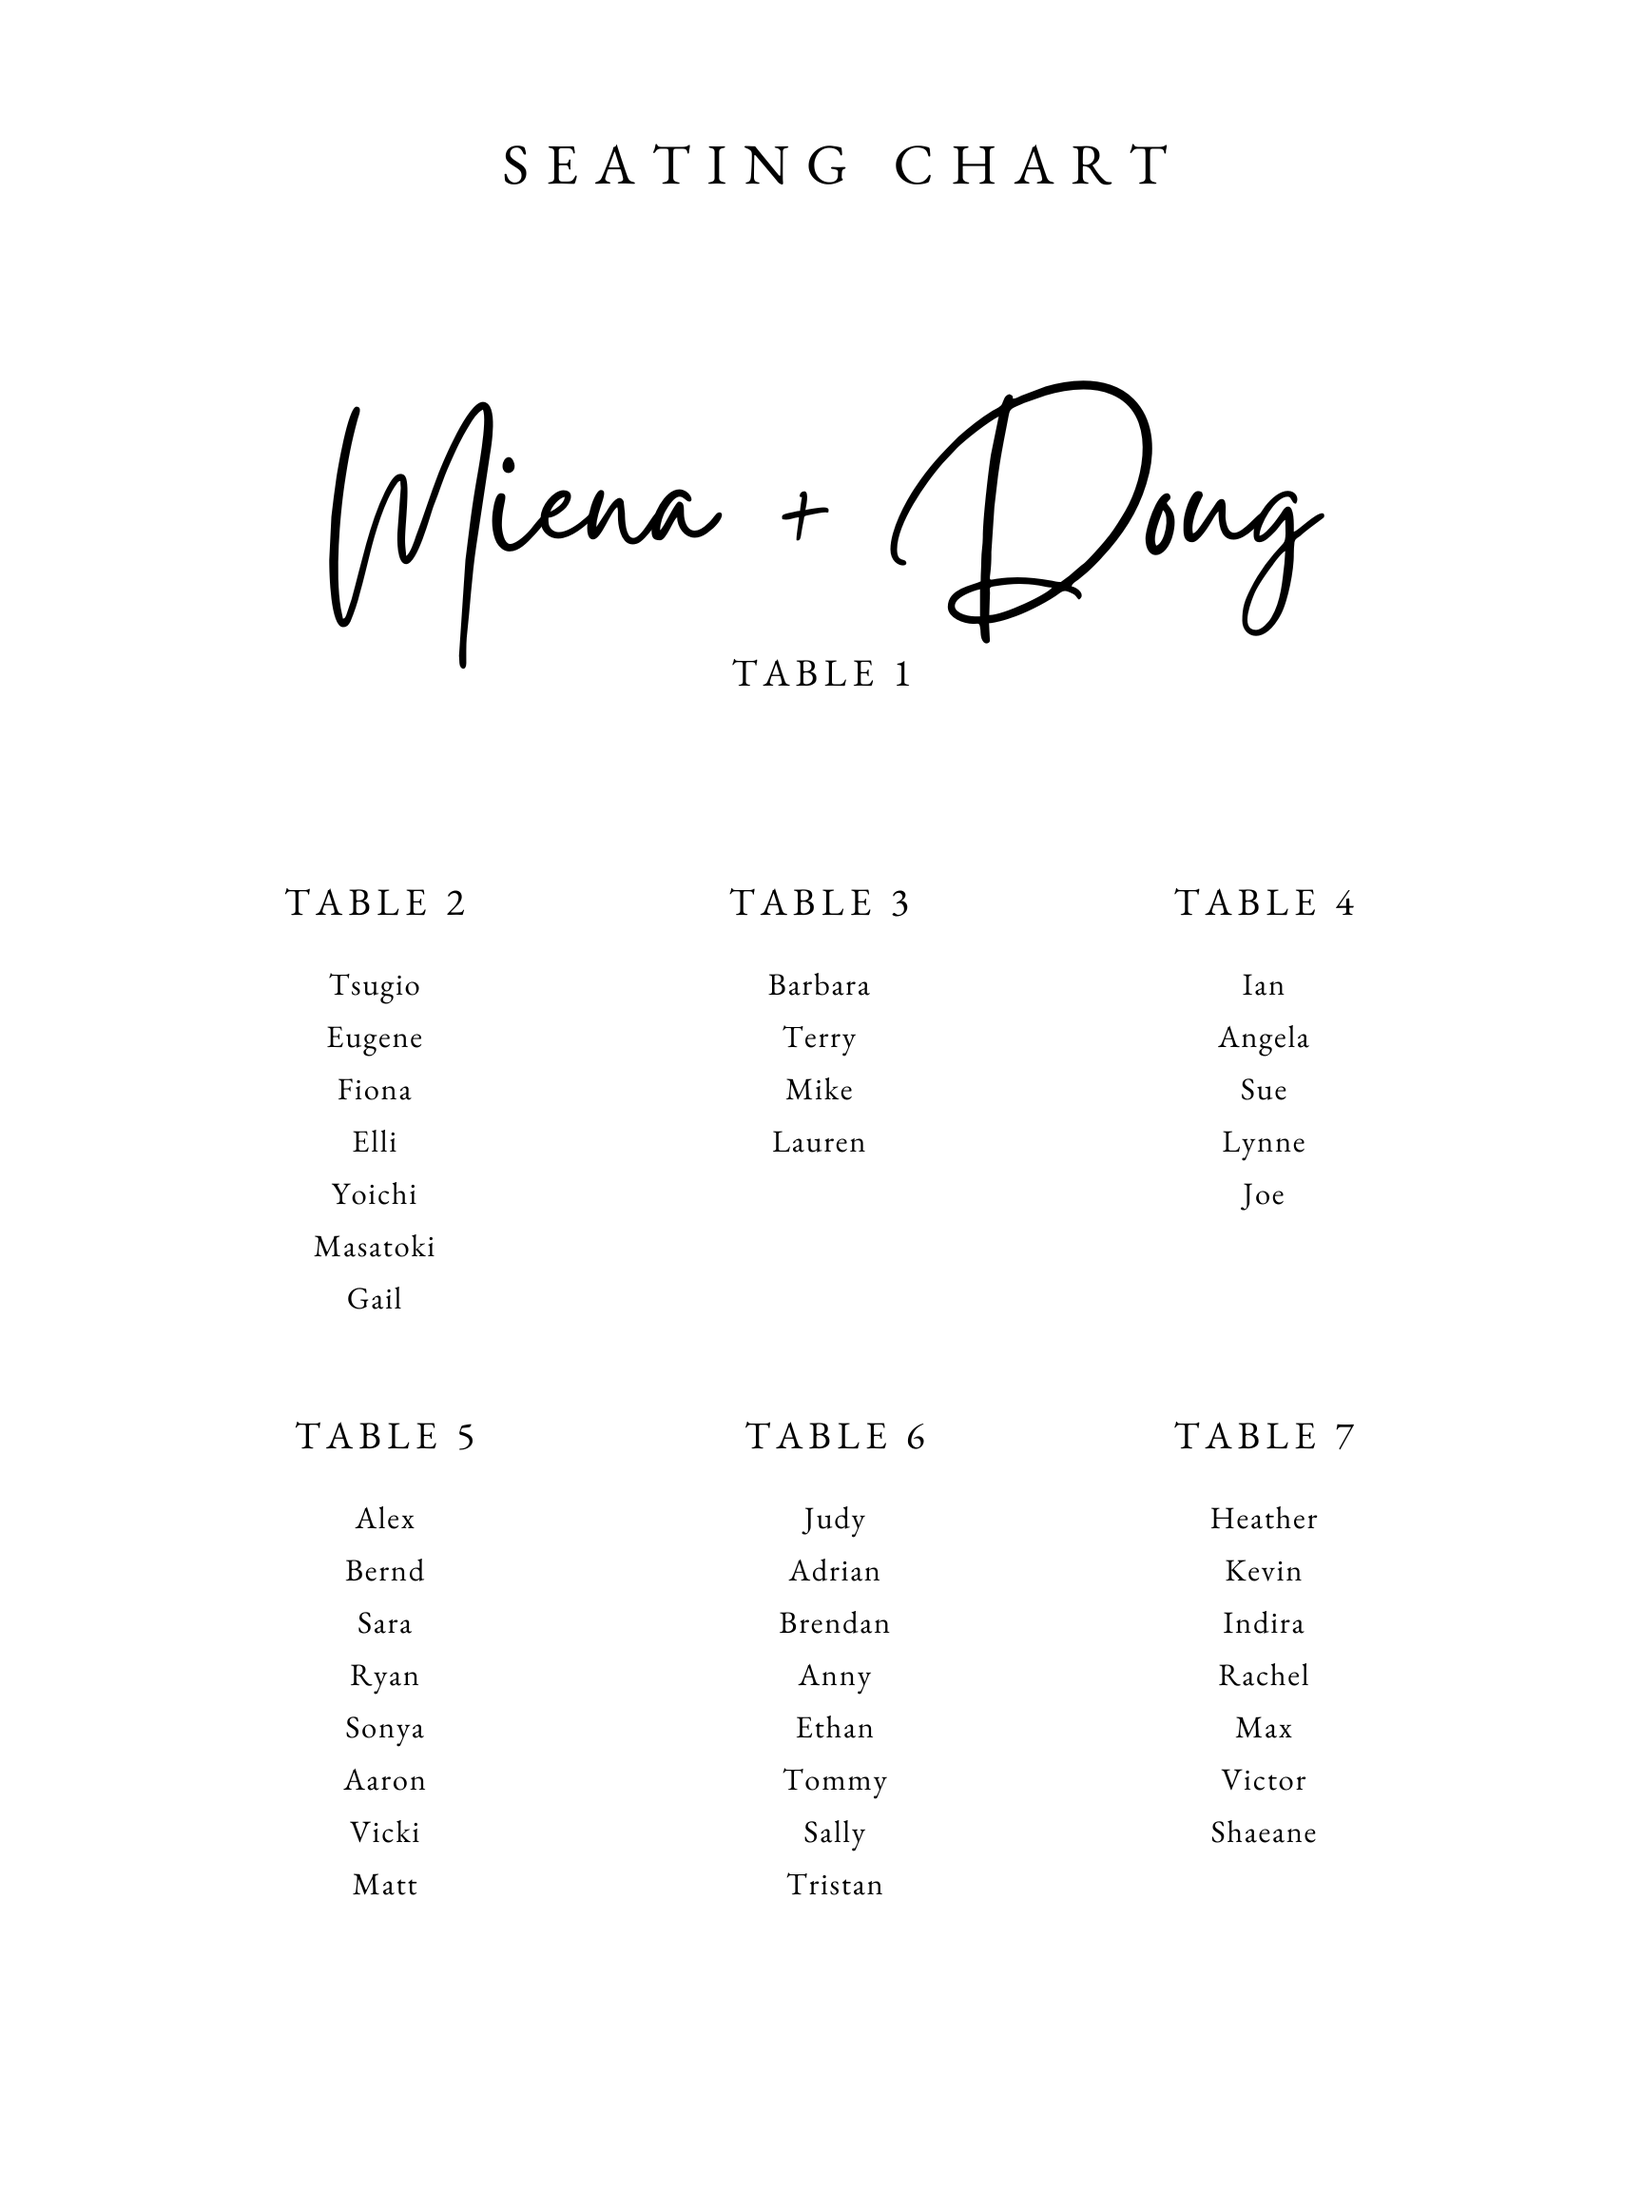
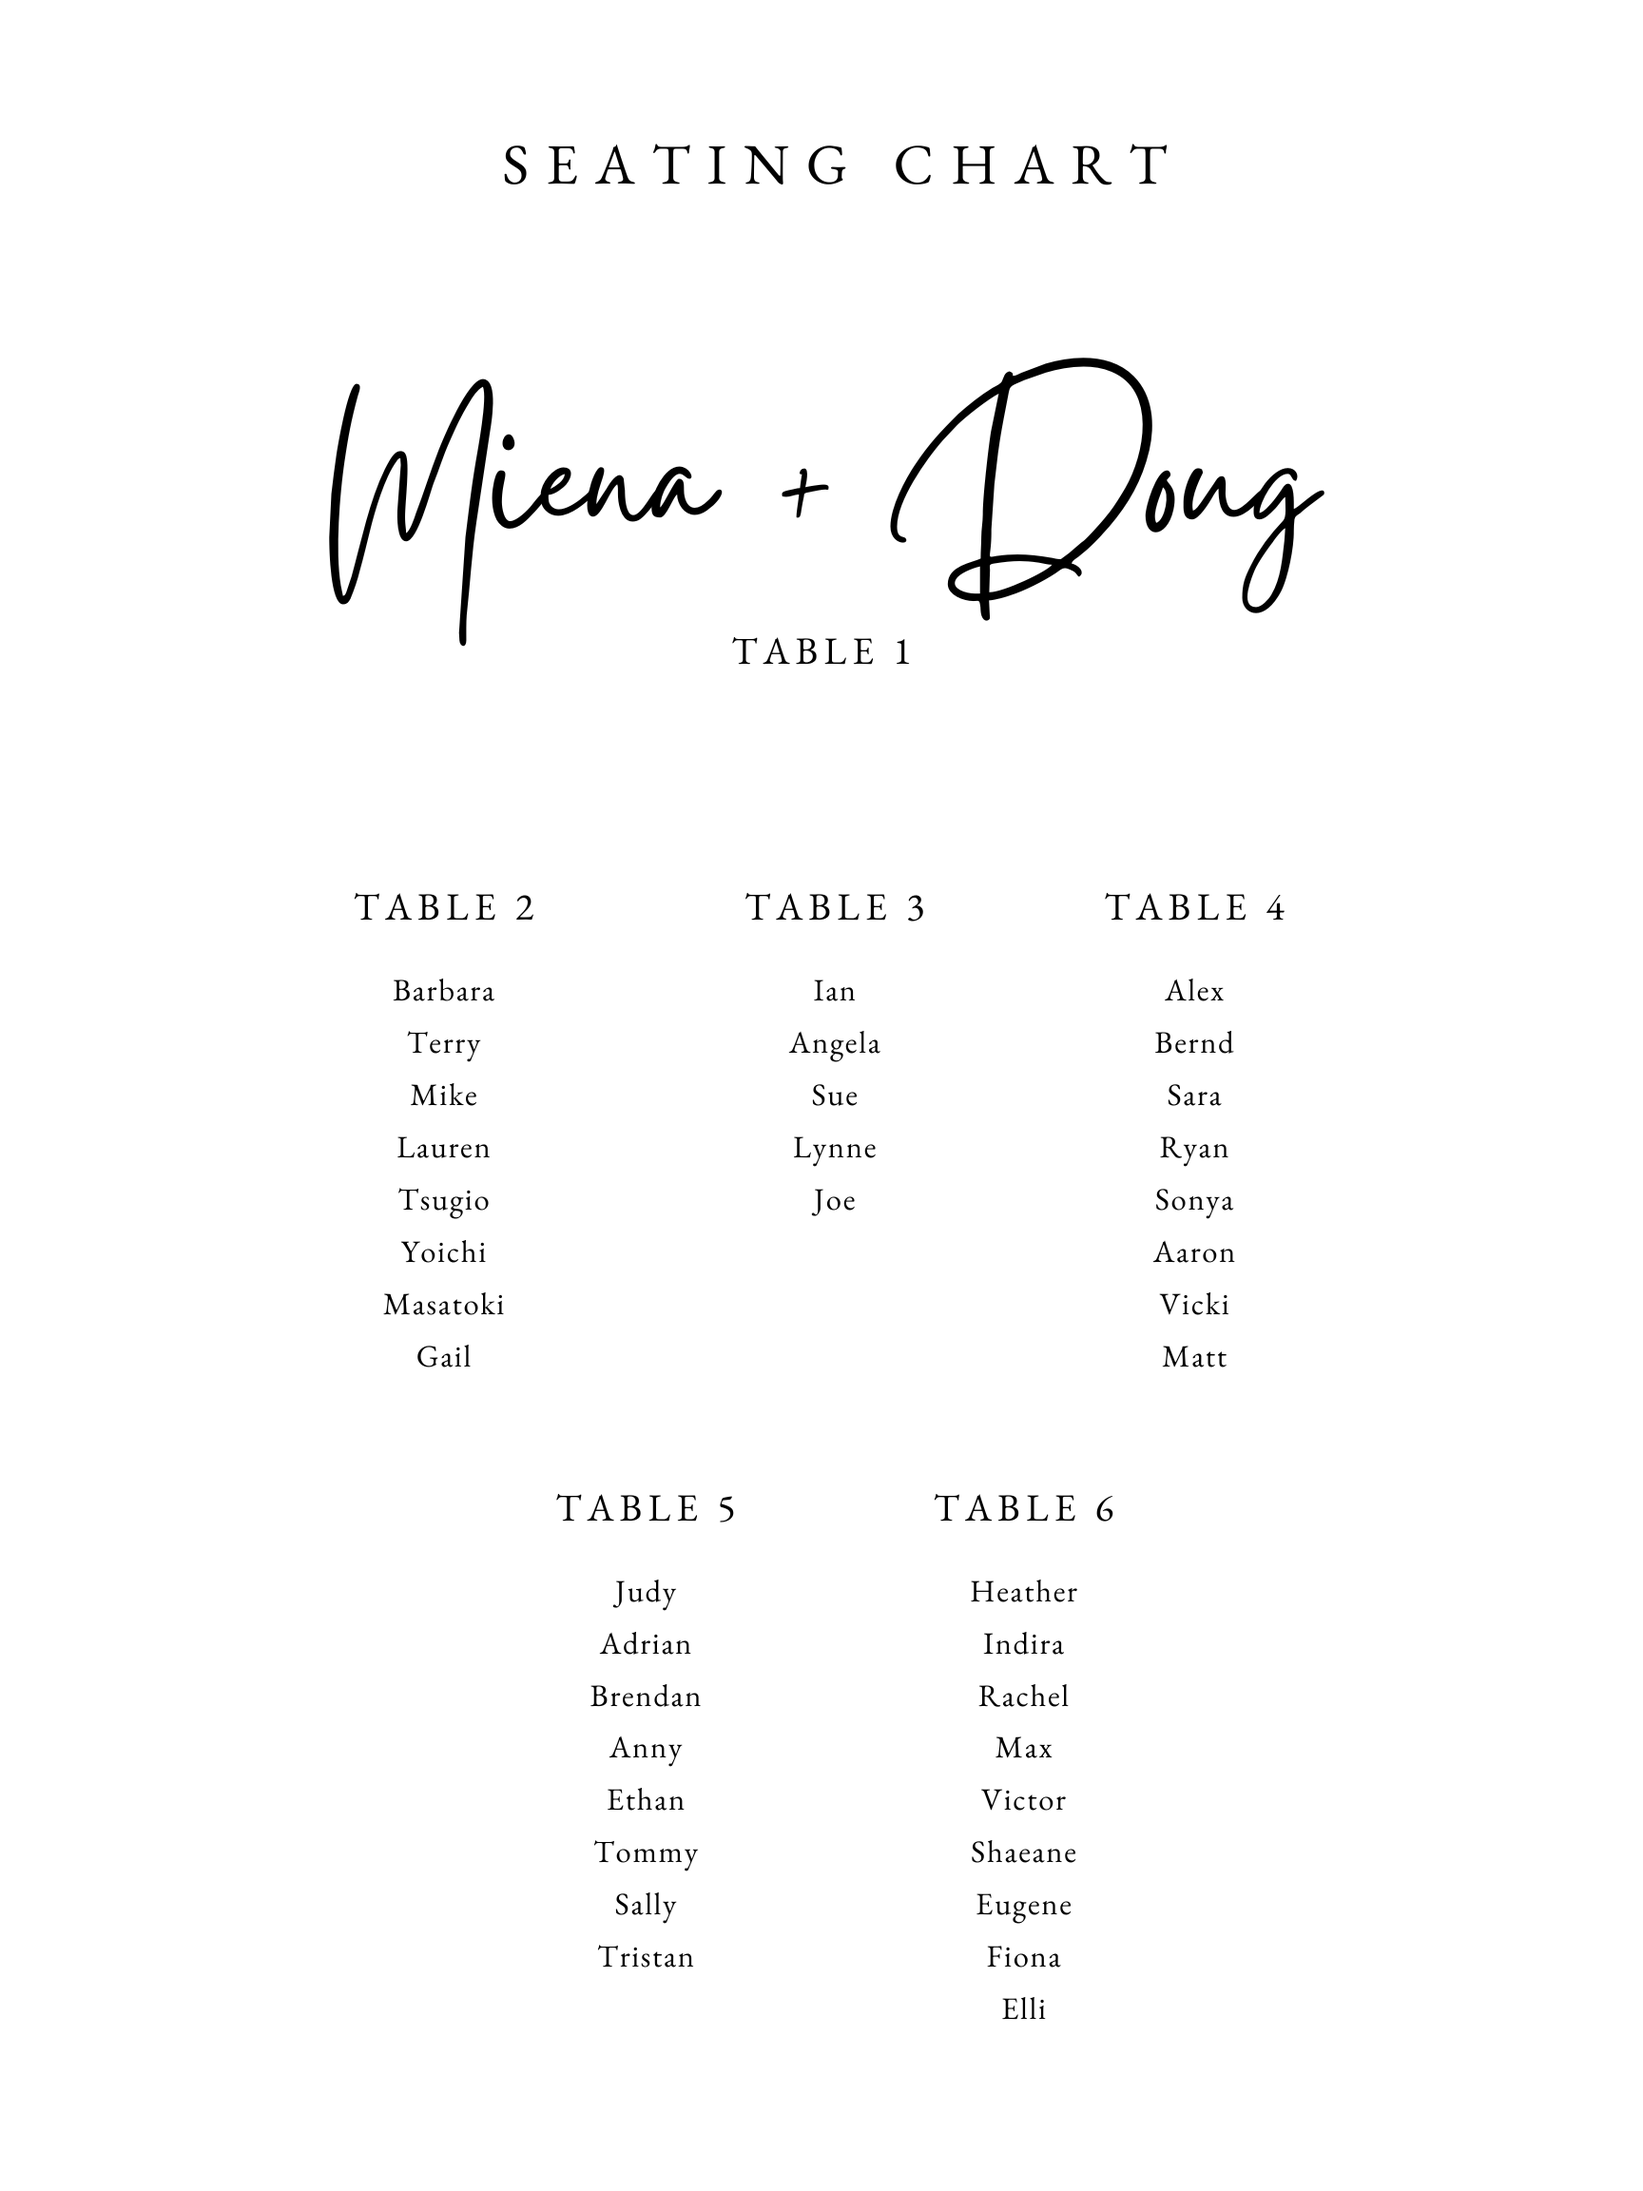
x

diff --git a/index.html b/index.html
@@ -103,16 +103,19 @@
 									</thead>
 									<tbody>
 										<tr>
+											<td>Barbara</td>
+										</tr>
+										<tr>
+											<td>Terry</td>
+										</tr>
+										<tr>
+											<td>Mike</td>
+										</tr>
+										<tr>
+											<td>Lauren</td>
+										</tr>
+										<tr>
 											<td>Tsugio</td>
-										</tr>
-										<tr>
-											<td>Eugene</td>
-										</tr>
-										<tr>
-											<td>Fiona</td>
-										</tr>
-										<tr>
-											<td>Elli</td>
 										</tr>
 										<tr>
 											<td>Yoichi</td>
@@ -123,7 +126,6 @@
 										<tr>
 											<td>Gail</td>
 										</tr>
-										
 									</tbody>
 								</table>
 							</li>
@@ -136,35 +138,6 @@
 									<thead>
 										<tr>
 											<th>Three</th>
-										</tr>
-									</thead>
-									<tbody>
-										<tr>
-											<td>Barbara</td>
-										</tr>
-										<tr>
-											<td>Terry</td>
-										</tr>
-										<tr>
-											<td>Mike</td>
-										</tr>
-										<tr>
-											<td>Lauren</td>
-										</tr>
-									</tbody>
-								</table>
-							</li>
-						</ul>
-					</div>
-				</div>
-				<div class="row">
-					<div class="col-6 col-12-small">
-						<ul class="actions stacked">
-							<li>
-								<table class="alt">
-									<thead>
-										<tr>
-											<th>Four</th>
 										</tr>
 									</thead>
 									<tbody>
@@ -188,13 +161,16 @@
 							</li>
 						</ul>
 					</div>
+				</div>
+				<div class="row">
+
 					<div class="col-6 col-12-small">
 						<ul class="actions stacked">
 							<li>
 								<table class="alt">
 									<thead>
 										<tr>
-											<th>Five</th>
+											<th>Four</th>
 										</tr>
 									</thead>
 									<tbody>
@@ -227,15 +203,13 @@
 							</li>
 						</ul>
 					</div>
-				</div>
-				<div class="row">
 					<div class="col-6 col-12-small">
 						<ul class="actions stacked">
 							<li>
 								<table class="alt">
 									<thead>
 										<tr>
-											<th>Six</th>
+											<th>Five</th>
 										</tr>
 									</thead>
 									<tbody>
@@ -268,21 +242,21 @@
 							</li>
 						</ul>
 					</div>
+				</div>
+				<div class="row">
+
 					<div class="col-6 col-12-small">
 						<ul class="actions stacked">
 							<li>
 								<table class="alt">
 									<thead>
 										<tr>
-											<th>Seven</th>
+											<th>Six</th>
 										</tr>
 									</thead>
 									<tbody>
 										<tr>
 											<td>Heather</td>
-										</tr>
-										<tr>
-											<td>Kevin</td>
 										</tr>
 										<tr>
 											<td>Indira</td>
@@ -298,6 +272,15 @@
 										</tr>
 										<tr>
 											<td>Shaeane</td>
+										</tr>
+										<tr>
+											<td>Eugene</td>
+										</tr>
+										<tr>
+											<td>Fiona</td>
+										</tr>
+										<tr>
+											<td>Elli</td>
 										</tr>
 									</tbody>
 								</table>
